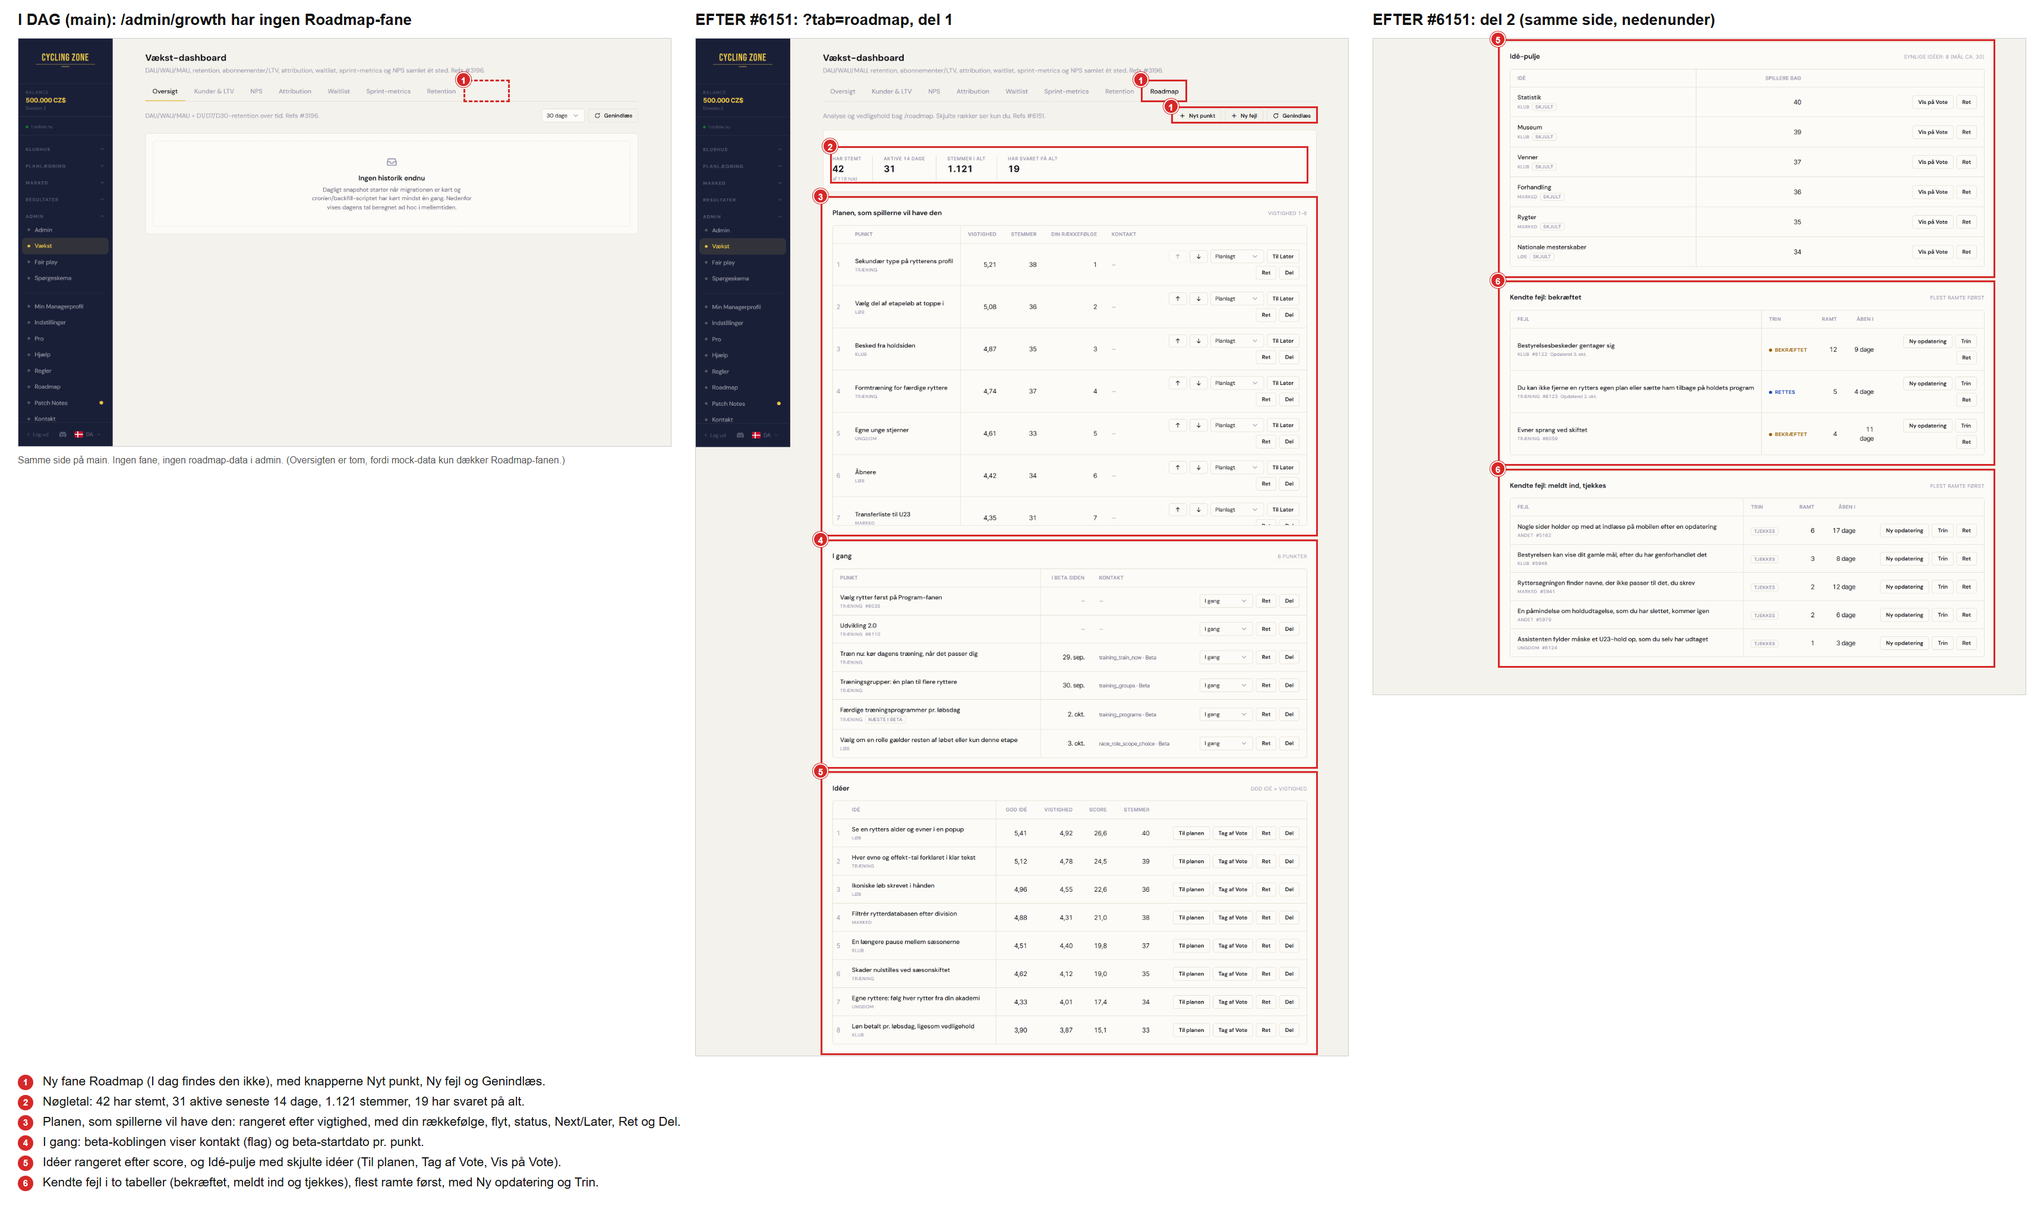
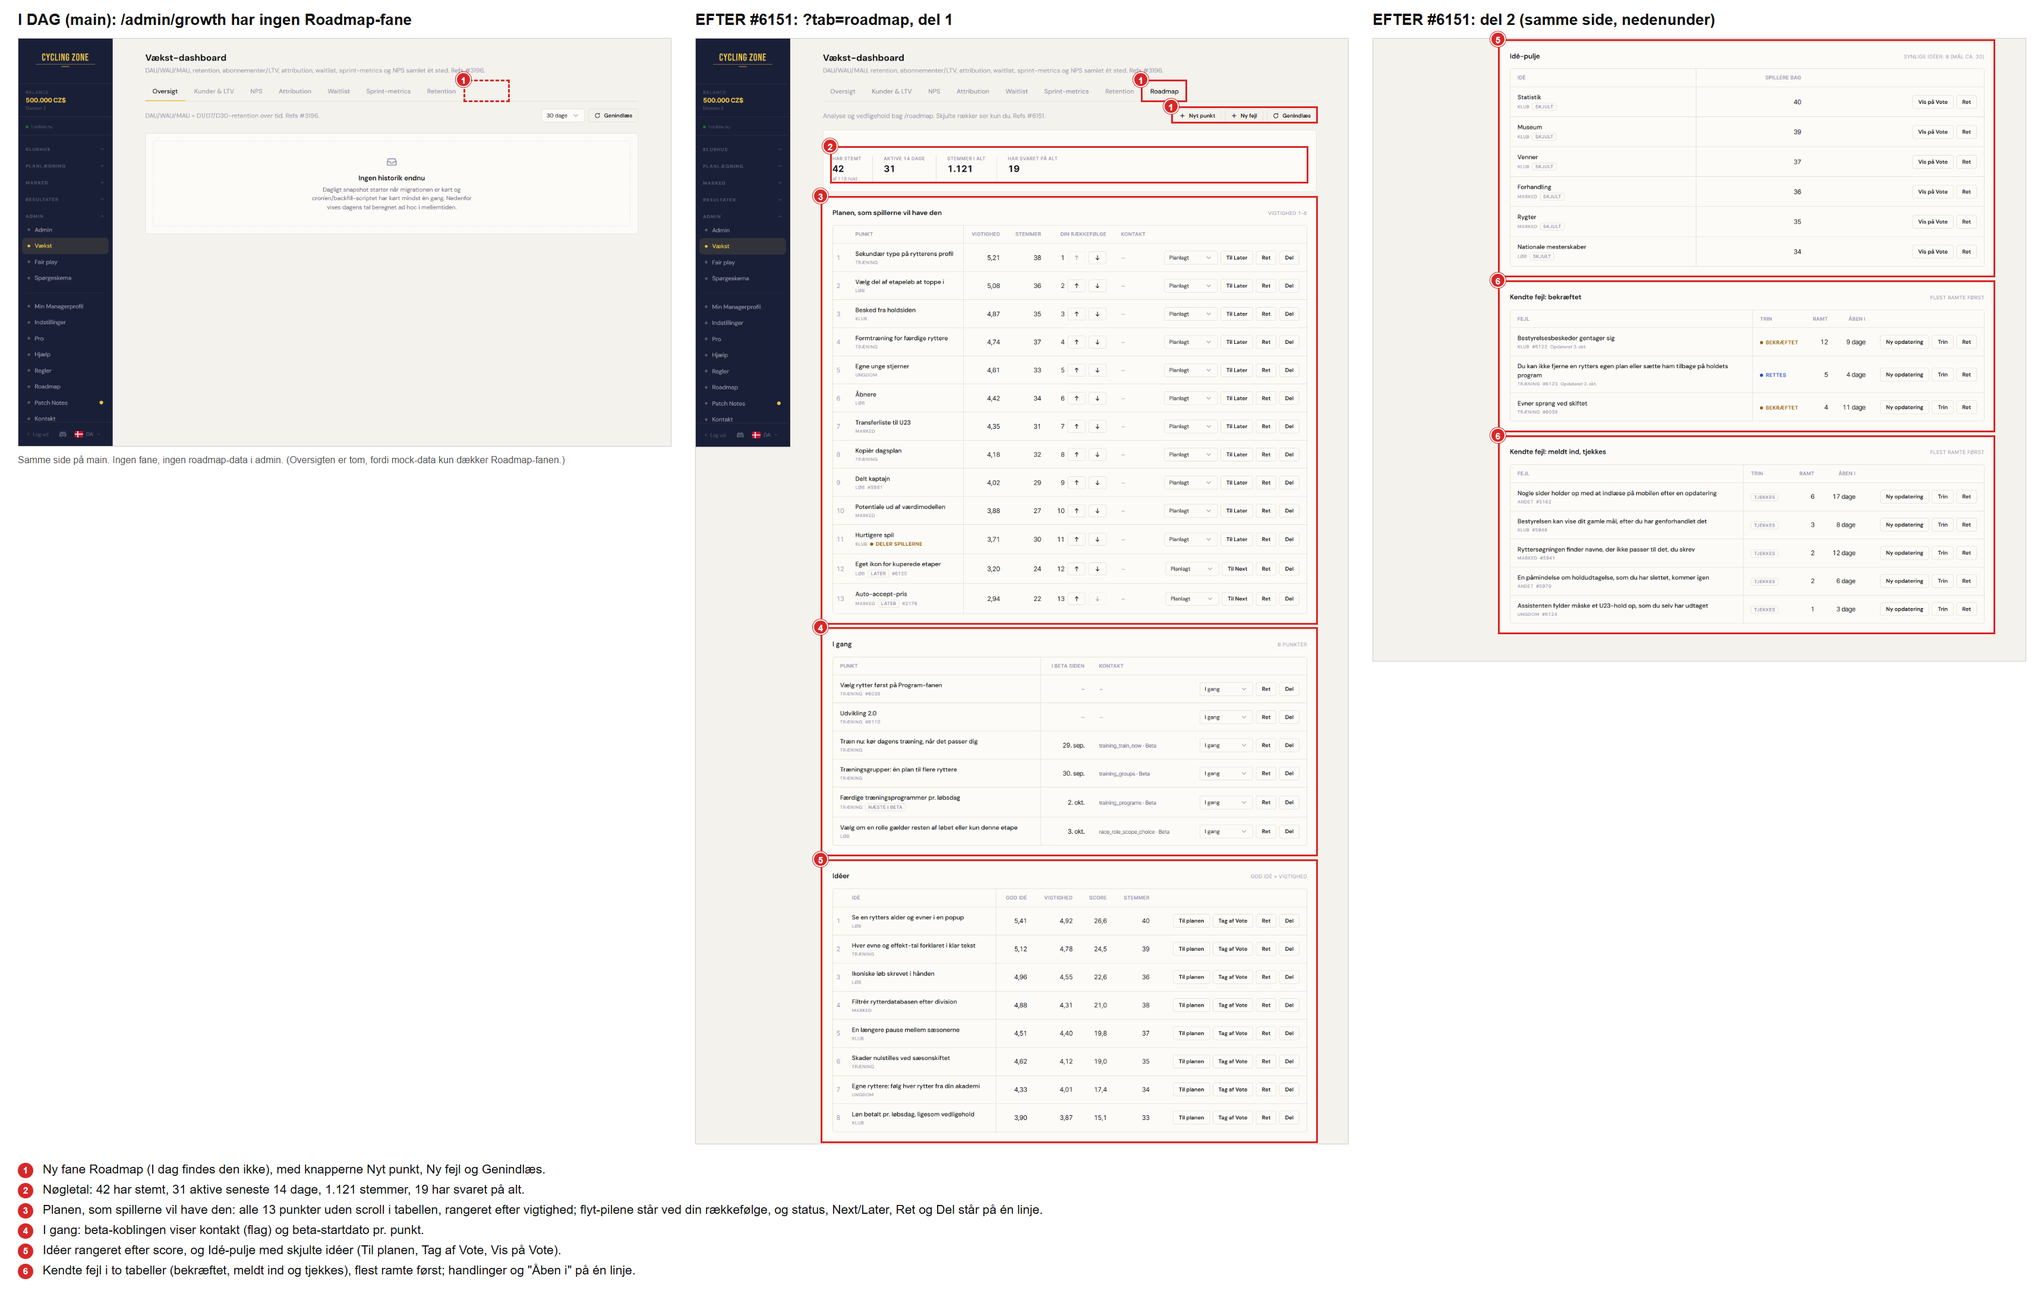
fix(admin): Roadmap-fanen viser hele planen og handlinger paa een linje (Refs #6151)
- Planen var skaaret midt i raekke 7: DataTable's SCROLLER har paa desktop et
  loft paa 100dvh - 240px med egen lodret scroll. Fanens seks tabeller faar nu
  max-h-none paa scrolleren, saa siden scroller og aldrig en tabel.
- Handlingerne ombroedes til to linjer: Actions er nowrap, titlen maa ombryde
  (navnecellen var nowrap og skubbede tabellen ud over kortet), og op/ned-
  pilene staar ved "Din raekkefoelge"-tallet, saa planen passer ved 1440 px.
- Tal-kolonnerne er whitespace-nowrap + tabular-nums ("11 dage" paa een linje).
- Foer/efter-billedet er genbygget med hele planen; klippet beregnes nu fra
  boxes.json i stedet for en fast pixel-vaerdi.

diff --git a/pr-screens/6151/6151-foer-efter.html b/pr-screens/6151/6151-foer-efter.html
@@ -1,5 +1,5 @@
 <!doctype html><html><head><meta charset="utf-8"><title>6151 før og efter</title><style>
-body{margin:0;background:#fff;font-family:Arial,Helvetica,sans-serif;width:3440px;height:2062px;position:relative;color:#111}
+body{margin:0;background:#fff;font-family:Arial,Helvetica,sans-serif;width:3440px;height:2211px;position:relative;color:#111}
 .title{position:absolute;top:18px;font-size:26px;font-weight:700}
 .shot,.crop{position:absolute;border:1px solid #ccc;box-sizing:border-box}
 .crop{overflow:hidden}.crop img{position:absolute;left:0}
@@ -8,4 +8,4 @@ body{margin:0;background:#fff;font-family:Arial,Helvetica,sans-serif;width:3440p
 .note{position:absolute;font-size:16px;color:#555}
 .leg{position:absolute;left:30px;font-size:21px}.leg b{display:inline-block;width:26px;height:26px;border-radius:50%;background:#d62828;color:#fff;text-align:center;line-height:26px;font-size:15px;margin-right:10px}
 
-</style></head><body><div class="title" style="left:30px">I DAG (main): /admin/growth har ingen Roadmap-fane</div><div class="title" style="left:1170px">EFTER #6151: ?tab=roadmap, del 1</div><div class="title" style="left:2310px">EFTER #6151: del 2 (samme side, nedenunder)</div><img class="shot" src="raw-i-dag.png" style="left:30px;top:64px;width:1100px;height:688px"><div class="note" style="left:30px;top:766px;width:1100px">Samme side på main. Ingen fane, ingen roadmap-data i admin. (Oversigten er tom, fordi mock-data kun dækker Roadmap-fanen.)</div><div class="crop" style="left:1170px;top:64px;width:1100px;height:1714px"><img src="raw-efter.png" style="width:1100px;height:2820px;top:0"></div><div class="crop" style="left:2310px;top:64px;width:1100px;height:1106px"><img src="raw-efter.png" style="width:1100px;height:2820px;top:-1714px"></div><div class="rect dashed" style="left:779.8244357638888px;top:134.33333333333331px;width:78.19943576388889px;height:38.08333333333333px"></div><div class="pin" style="left:766.8244357638888px;top:121.33333333333331px">1</div><div class="rect" style="left:1919.8244357638887px;top:134.33333333333331px;width:78.19943576388889px;height:38.08333333333333px"></div><div class="pin" style="left:1906.8244357638887px;top:121.33333333333331px">1</div><div class="rect" style="left:1970.503689236111px;top:179.40277777777777px;width:247.49631076388889px;height:28.916666666666664px"></div><div class="pin" style="left:1957.503689236111px;top:166.40277777777777px">1</div><div class="rect" style="left:1396.9305555555557px;top:245.8611111111111px;width:805.0277777777777px;height:63.17230902777777px"></div><div class="pin" style="left:1383.9305555555557px;top:232.8611111111111px">2</div><div class="rect" style="left:1380.888888888889px;top:329.76953125px;width:837.1111111111111px;height:573.1875px"></div><div class="pin" style="left:1367.888888888889px;top:316.76953125px">3</div><div class="rect" style="left:1380.888888888889px;top:907.6514756944443px;width:837.1111111111111px;height:385.9153645833333px"></div><div class="pin" style="left:1367.888888888889px;top:894.6514756944443px">4</div><div class="rect" style="left:1380.888888888889px;top:1298.2612847222222px;width:837.1111111111111px;height:477.58203124999994px"></div><div class="pin" style="left:1367.888888888889px;top:1285.2612847222222px">5</div><div class="rect" style="left:2520.8888888888887px;top:66.37109375px;width:837.1111111111111px;height:401.1931423611111px"></div><div class="pin" style="left:2507.8888888888887px;top:53.37109375px">5</div><div class="rect" style="left:2520.8888888888887px;top:472.25868055555554px;width:837.1111111111111px;height:311.8181423611111px"></div><div class="pin" style="left:2507.8888888888887px;top:459.25868055555554px">6</div><div class="rect" style="left:2520.8888888888887px;top:788.7712673611111px;width:837.1111111111111px;height:335.49869791666663px"></div><div class="pin" style="left:2507.8888888888887px;top:775.7712673611111px">6</div><div id="legend"><div class="leg" style="top:1808px"><b>1</b> Ny fane Roadmap (I dag findes den ikke), med knapperne Nyt punkt, Ny fejl og Genindlæs.</div><div class="leg" style="top:1842px"><b>2</b> Nøgletal: 42 har stemt, 31 aktive seneste 14 dage, 1.121 stemmer, 19 har svaret på alt.</div><div class="leg" style="top:1876px"><b>3</b> Planen, som spillerne vil have den: rangeret efter vigtighed, med din rækkefølge, flyt, status, Next/Later, Ret og Del.</div><div class="leg" style="top:1910px"><b>4</b> I gang: beta-koblingen viser kontakt (flag) og beta-startdato pr. punkt.</div><div class="leg" style="top:1944px"><b>5</b> Idéer rangeret efter score, og Idé-pulje med skjulte idéer (Til planen, Tag af Vote, Vis på Vote).</div><div class="leg" style="top:1978px"><b>6</b> Kendte fejl i to tabeller (bekræftet, meldt ind og tjekkes), flest ramte først, med Ny opdatering og Trin.</div></div></body></html>
+</style></head><body><div class="title" style="left:30px">I DAG (main): /admin/growth har ingen Roadmap-fane</div><div class="title" style="left:1170px">EFTER #6151: ?tab=roadmap, del 1</div><div class="title" style="left:2310px">EFTER #6151: del 2 (samme side, nedenunder)</div><img class="shot" src="raw-i-dag.png" style="left:30px;top:64px;width:1100px;height:688px"><div class="note" style="left:30px;top:766px;width:1100px">Samme side på main. Ingen fane, ingen roadmap-data i admin. (Oversigten er tom, fordi mock-data kun dækker Roadmap-fanen.)</div><div class="crop" style="left:1170px;top:64px;width:1100px;height:1863px"><img src="raw-efter.png" style="width:1100px;height:2913px;top:0"></div><div class="crop" style="left:2310px;top:64px;width:1100px;height:1050px"><img src="raw-efter.png" style="width:1100px;height:2913px;top:-1863px"></div><div class="rect dashed" style="left:779.8244357638888px;top:134.33333333333331px;width:78.19943576388889px;height:38.08333333333333px"></div><div class="pin" style="left:766.8244357638888px;top:121.33333333333331px">1</div><div class="rect" style="left:1919.8244357638887px;top:134.33333333333331px;width:78.19943576388889px;height:38.08333333333333px"></div><div class="pin" style="left:1906.8244357638887px;top:121.33333333333331px">1</div><div class="rect" style="left:1970.503689236111px;top:179.40277777777777px;width:247.49631076388889px;height:28.916666666666664px"></div><div class="pin" style="left:1957.503689236111px;top:166.40277777777777px">1</div><div class="rect" style="left:1396.9305555555557px;top:245.8611111111111px;width:805.0277777777777px;height:63.17230902777777px"></div><div class="pin" style="left:1383.9305555555557px;top:232.8611111111111px">2</div><div class="rect" style="left:1380.888888888889px;top:329.76953125px;width:837.1111111111111px;height:721.9071180555555px"></div><div class="pin" style="left:1367.888888888889px;top:316.76953125px">3</div><div class="rect" style="left:1380.888888888889px;top:1056.37109375px;width:837.1111111111111px;height:385.9153645833333px"></div><div class="pin" style="left:1367.888888888889px;top:1043.37109375px">4</div><div class="rect" style="left:1380.888888888889px;top:1446.9809027777776px;width:837.1111111111111px;height:477.58203124999994px"></div><div class="pin" style="left:1367.888888888889px;top:1433.9809027777776px">5</div><div class="rect" style="left:2520.8888888888887px;top:66.13237847222223px;width:837.1111111111111px;height:401.1931423611111px"></div><div class="pin" style="left:2507.8888888888887px;top:53.13237847222223px">5</div><div class="rect" style="left:2520.8888888888887px;top:472.01996527777777px;width:837.1111111111111px;height:256.0542534722222px"></div><div class="pin" style="left:2507.8888888888887px;top:459.01996527777777px">6</div><div class="rect" style="left:2520.8888888888887px;top:732.7686631944445px;width:837.1111111111111px;height:335.49869791666663px"></div><div class="pin" style="left:2507.8888888888887px;top:719.7686631944445px">6</div><div id="legend"><div class="leg" style="top:1957px"><b>1</b> Ny fane Roadmap (I dag findes den ikke), med knapperne Nyt punkt, Ny fejl og Genindlæs.</div><div class="leg" style="top:1991px"><b>2</b> Nøgletal: 42 har stemt, 31 aktive seneste 14 dage, 1.121 stemmer, 19 har svaret på alt.</div><div class="leg" style="top:2025px"><b>3</b> Planen, som spillerne vil have den: alle 13 punkter uden scroll i tabellen, rangeret efter vigtighed; flyt-pilene står ved din rækkefølge, og status, Next/Later, Ret og Del står på én linje.</div><div class="leg" style="top:2059px"><b>4</b> I gang: beta-koblingen viser kontakt (flag) og beta-startdato pr. punkt.</div><div class="leg" style="top:2093px"><b>5</b> Idéer rangeret efter score, og Idé-pulje med skjulte idéer (Til planen, Tag af Vote, Vis på Vote).</div><div class="leg" style="top:2127px"><b>6</b> Kendte fejl i to tabeller (bekræftet, meldt ind og tjekkes), flest ramte først; handlinger og "Åben i" på én linje.</div></div></body></html>

diff --git a/frontend/src/components/admin/growth/GrowthRoadmapTab.jsx b/frontend/src/components/admin/growth/GrowthRoadmapTab.jsx
@@ -31,6 +31,7 @@ import {
 } from "../../ui";
 
 const API = import.meta.env.VITE_API_URL;
+const UNBOUNDED = "[&>div>div]:max-h-none";
 
 const nowIso = () => new Date().toISOString();
 const fmtInt = (n) => (n === null || n === undefined ? "–" : Number(n).toLocaleString("da-DK"));
@@ -52,17 +53,27 @@ function IssueStepBadge({ status }) {
   return <Tag>{ISSUE_STATUS_LABELS[status] ?? status}</Tag>;
 }
 
+// Én linje pr. række ved 1440 px: handlingerne ombrydes aldrig (rækkerne blev
+// ellers dobbelt så høje); titel-kolonnen er den, der giver plads.
 function Actions({ children }) {
-  return <div className="flex flex-wrap items-center justify-end gap-1.5">{children}</div>;
+  return <div className="flex flex-nowrap items-center justify-end gap-1.5 whitespace-nowrap">{children}</div>;
+}
+
+// Tal og datoer i tal-kolonner ombrydes aldrig ("11 dage" på to linjer).
+function Num({ children }) {
+  return <span className="whitespace-nowrap tabular-nums">{children}</span>;
 }
 
 function RowButton({ children, ...rest }) {
   return <Button variant="secondary" size="sm" type="button" {...rest}>{children}</Button>;
 }
 
+// `whitespace-normal`: DataTable's navnecelle er nowrap på desktop, så den
+// længste titel satte tabellens bredde og skubbede handlingerne ud over kortet.
+// Titlen er den, der må ombryde; handlingerne og tallene gør aldrig.
 function TitleCell({ title, children }) {
   return (
-    <div className="min-w-0">
+    <div className="min-w-0 whitespace-normal">
       <div className="text-cz-1">{title}</div>
       {children && <div className="mt-0.5 flex flex-wrap items-center gap-1.5 text-3xs uppercase tracking-[.06em] text-cz-3">{children}</div>}
     </div>
@@ -196,16 +207,17 @@ export default function GrowthRoadmapTab() {
         </TitleCell>
       ),
     },
-    { key: "importance", header: "Vigtighed", numeric: true, render: (r) => fmtScore(r.avg_importance) },
-    { key: "votes", header: "Stemmer", numeric: true, render: (r) => fmtInt(r.votes) },
-    { key: "own", header: "Din rækkefølge", mobileHeader: "Din", numeric: true, render: (r) => order.get(r.item_id) ?? "–" },
-    { key: "flag", header: "Kontakt", fold: true, foldValue: (r) => r.flag_key ?? "", render: flagCell },
+    { key: "importance", header: "Vigtighed", numeric: true, render: (r) => <Num>{fmtScore(r.avg_importance)}</Num> },
+    { key: "votes", header: "Stemmer", numeric: true, render: (r) => <Num>{fmtInt(r.votes)}</Num> },
+    // Pilene står ved nummeret, de flytter: det holder handlingskolonnen smal nok
+    // til, at hele rækken er én linje ved 1440 px.
     {
-      key: "actions", header: "", fold: true, foldValue: () => "",
+      key: "own", header: "Din rækkefølge", mobileHeader: "Din", numeric: true,
       render: (r) => {
         const pos = order.get(r.item_id) ?? 0;
         return (
-          <Actions>
+          <div className="flex flex-nowrap items-center justify-end gap-1.5">
+            <Num>{pos || "–"}</Num>
             <RowButton aria-label="Flyt op" disabled={busy !== null || pos <= 1}
               onClick={() => run(`up-${r.item_id}`, () => Promise.all(movePatches(plannedRows, r.item_id, -1)
                 .map((p) => updateItem(p.item_id, { sort_order: p.sort_order }))))}>
@@ -216,16 +228,24 @@ export default function GrowthRoadmapTab() {
                 .map((p) => updateItem(p.item_id, { sort_order: p.sort_order }))))}>
               <ArrowDownIcon size={14} aria-hidden="true" />
             </RowButton>
-            <div className="w-[118px]">{statusSelect(r)}</div>
-            <RowButton disabled={busy !== null}
-              onClick={() => run(`hz-${r.item_id}`, () => updateItem(r.item_id, { horizon: r.horizon === "later" ? "next" : "later" }))}>
-              {r.horizon === "later" ? "Til Next" : "Til Later"}
-            </RowButton>
-            <RowButton onClick={() => setModal({ kind: "item", row: r })}>Ret</RowButton>
-            <RowButton onClick={() => setModal({ kind: "split", row: r })}>Del</RowButton>
-          </Actions>
+          </div>
         );
       },
+    },
+    { key: "flag", header: "Kontakt", fold: true, foldValue: (r) => r.flag_key ?? "", render: flagCell },
+    {
+      key: "actions", header: "", fold: true, foldValue: () => "",
+      render: (r) => (
+        <Actions>
+          <div className="w-[118px]">{statusSelect(r)}</div>
+          <RowButton disabled={busy !== null}
+            onClick={() => run(`hz-${r.item_id}`, () => updateItem(r.item_id, { horizon: r.horizon === "later" ? "next" : "later" }))}>
+            {r.horizon === "later" ? "Til Next" : "Til Later"}
+          </RowButton>
+          <RowButton onClick={() => setModal({ kind: "item", row: r })}>Ret</RowButton>
+          <RowButton onClick={() => setModal({ kind: "split", row: r })}>Del</RowButton>
+        </Actions>
+      ),
     },
   ];
 
@@ -233,7 +253,7 @@ export default function GrowthRoadmapTab() {
     { key: "title", header: "Punkt", sticky: true, render: (r) => <TitleCell title={r.title_da || r.title_en}>{itemTags(r)}</TitleCell> },
     {
       key: "beta", header: "I beta siden", numeric: true,
-      render: (r) => (r.beta_since ? fmtDate(r.beta_since) : <span className="text-cz-3">–</span>),
+      render: (r) => (r.beta_since ? <Num>{fmtDate(r.beta_since)}</Num> : <span className="text-cz-3">–</span>),
     },
     { key: "flag", header: "Kontakt", render: flagCell },
     {
@@ -251,10 +271,10 @@ export default function GrowthRoadmapTab() {
   const ideaColumns = [
     { key: "rank", header: "", compact: true, render: (_r, i) => <span className="font-data tabular-nums text-cz-3">{i + 1}</span> },
     { key: "title", header: "Idé", sticky: true, render: (r) => <TitleCell title={r.title_da || r.title_en}>{itemTags(r)}</TitleCell> },
-    { key: "idea", header: "God idé", numeric: true, render: (r) => fmtScore(r.avg_idea) },
-    { key: "importance", header: "Vigtighed", numeric: true, render: (r) => fmtScore(r.avg_importance) },
-    { key: "score", header: "Score", numeric: true, render: (r) => fmtScore(r.steering_score, 1) },
-    { key: "votes", header: "Stemmer", numeric: true, render: (r) => fmtInt(r.votes) },
+    { key: "idea", header: "God idé", numeric: true, render: (r) => <Num>{fmtScore(r.avg_idea)}</Num> },
+    { key: "importance", header: "Vigtighed", numeric: true, render: (r) => <Num>{fmtScore(r.avg_importance)}</Num> },
+    { key: "score", header: "Score", numeric: true, render: (r) => <Num>{fmtScore(r.steering_score, 1)}</Num> },
+    { key: "votes", header: "Stemmer", numeric: true, render: (r) => <Num>{fmtInt(r.votes)}</Num> },
     {
       key: "actions", header: "", fold: true, foldValue: () => "",
       render: (r) => (
@@ -276,7 +296,7 @@ export default function GrowthRoadmapTab() {
 
   const poolColumns = [
     { key: "title", header: "Idé", sticky: true, render: (r) => <TitleCell title={r.title_da || r.title_en}>{itemTags(r)}</TitleCell> },
-    { key: "votes", header: "Spillere bag", numeric: true, render: (r) => fmtInt(r.votes) },
+    { key: "votes", header: "Spillere bag", numeric: true, render: (r) => <Num>{fmtInt(r.votes)}</Num> },
     {
       key: "actions", header: "", fold: true, foldValue: () => "",
       render: (r) => (
@@ -306,8 +326,8 @@ export default function GrowthRoadmapTab() {
       },
     },
     { key: "step", header: "Trin", render: (r) => <IssueStepBadge status={r.status} /> },
-    { key: "reports", header: "Ramt", numeric: true, render: (r) => fmtInt(r.reports) },
-    { key: "days", header: "Åben i", numeric: true, render: (r) => `${fmtInt(r.days_open)} dage` },
+    { key: "reports", header: "Ramt", numeric: true, render: (r) => <Num>{fmtInt(r.reports)}</Num> },
+    { key: "days", header: "Åben i", numeric: true, render: (r) => <Num>{fmtInt(r.days_open)} dage</Num> },
     {
       key: "actions", header: "", fold: true, foldValue: () => "",
       render: (r) => (
@@ -327,7 +347,14 @@ export default function GrowthRoadmapTab() {
     { label: "Har svaret på alt", value: fmtInt(stats?.voted_all) },
   ];
 
-  const table = (props) => (loading ? <TableSkeleton /> : <DataTable rowKey={(r) => r.item_id ?? r.issue_id} {...props} />);
+  // DataTable's SCROLLER lægger på desktop et loft på 100dvh - 240px med egen
+  // lodret scroll (#4747), så planen (13 rækker) blev skåret midt i række 7.
+  // Fanen er seks tabeller under hinanden: her scroller SIDEN, aldrig en tabel.
+  // `[&>div>div]` rammer SCROLLER-div'en (className > WRAP > SCROLLER) og vinder
+  // på specificitet over media-query-loftet; vandret scroll er uændret.
+  const table = (props) => (loading ? <TableSkeleton /> : (
+    <DataTable rowKey={(r) => r.item_id ?? r.issue_id} className={UNBOUNDED} {...props} />
+  ));
 
   return (
     <div className="space-y-4">
